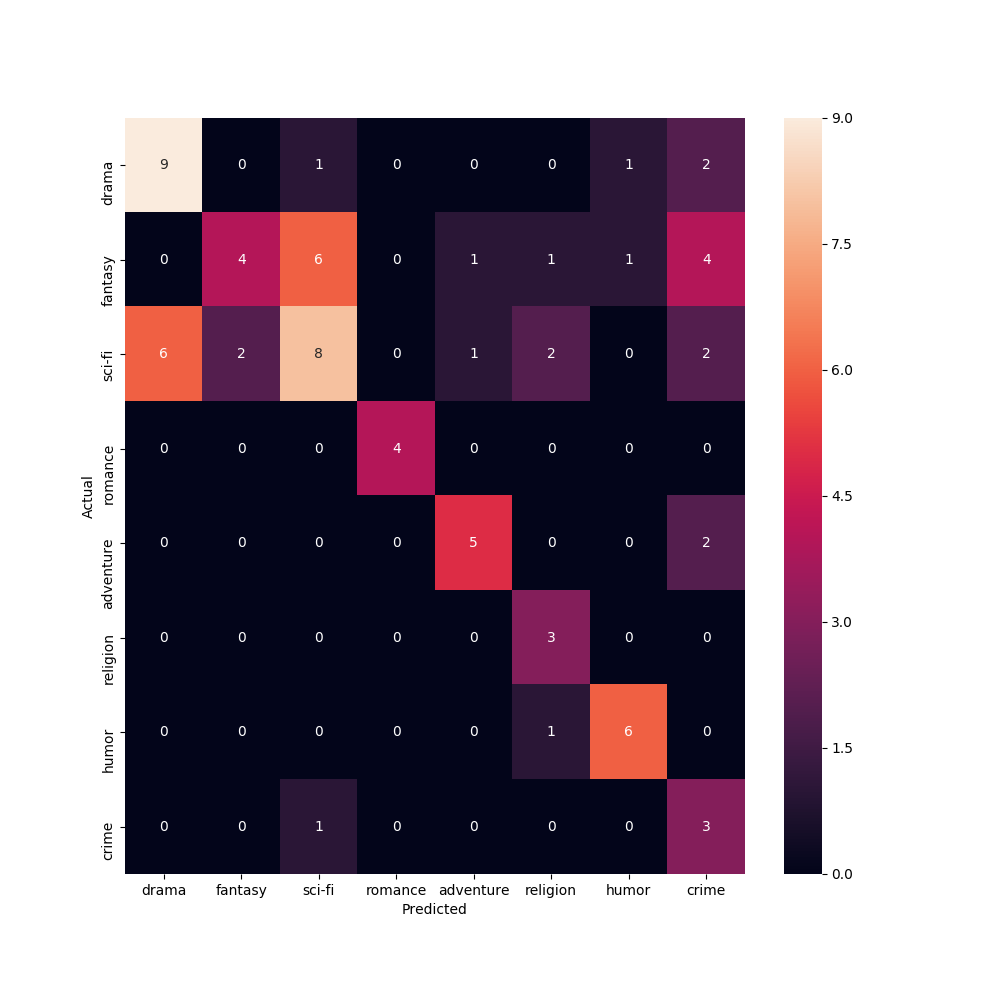
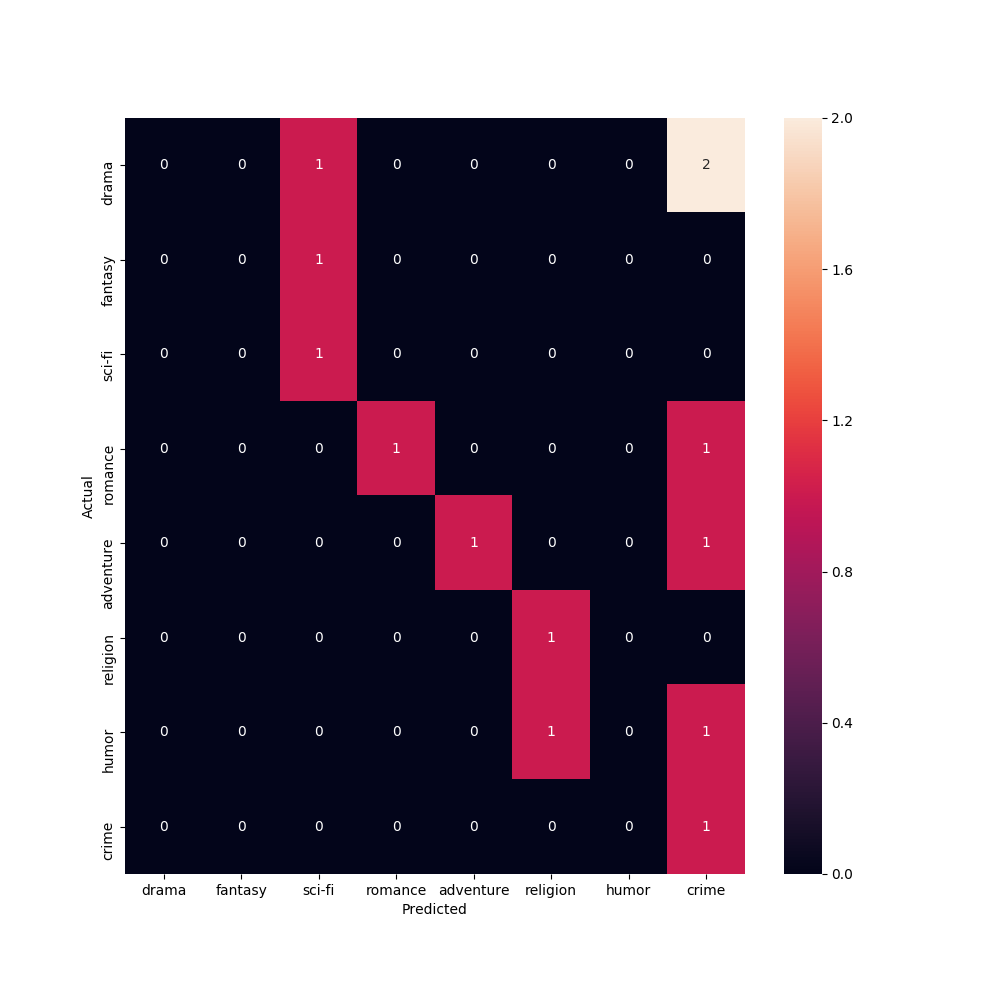
add third round

diff --git a/classifier/nb.py b/classifier/nb.py
@@ -53,6 +53,7 @@ for value in test_texts.values:
 	print(value[1].replace('.txt',''))
 	print('Predicted:\n')
 	print(clf.predict(count_vect.transform([value[0]]))[0])
+	print(clf.predict_proba(count_vect.transform([value[0]]))[0])
 	test_results.append([value[1].replace('.txt',''),clf.predict(count_vect.transform([value[0]]))[0]])
 
 with open('test_results.csv', 'wb') as myfile:
@@ -92,7 +93,9 @@ rus = RandomUnderSampler(ratio = .8, random_state=0)
 rus.fit(features, labels)
 X_resampled, y_resampled = rus.sample(features, labels)
 
-clf = model.fit(X_resampled, y_resampled)
+X_train, X_test, y_train, y_test = train_test_split(X_resampled, y_resampled, test_size = 0.1, random_state=0)
+
+clf = model.fit(X_train, y_train)
 y_pred = model.predict(X_test)
 
 accuracy = accuracy_score(y_test, y_pred)
@@ -109,16 +112,80 @@ plt.show()
 
 print(metrics.classification_report(y_test, y_pred, target_names=data['category'].unique()))
 
+
+# Segundo intento
+
+# Prepare data
+
+all_texts = pd.read_csv('../all_texts.csv')
+result_classification = pd.read_csv('../result_classification.csv', index_col=0)
+
+data = pd.merge(all_texts, result_classification, how = 'inner', on = 'file_name')
+data = data[data['category'] != 'myster']
+data = data[data['category'] != 'satire']
+data = data[data['category'] != 'travel']
+data = data[data['category'] != 'history']
+data = data[data['category'] != 'children']
+data = data[data['category'] != 'romance']
+data = data[data['category'] != 'religion']
+data = data[data['category'] != 'humor']
+data = data[data['category'] != 'crime']
+data['category_id'] = data['category'].factorize()[0]
+category_id_df = data[['category', 'category_id']].drop_duplicates().sort_values('category_id')
+category_to_id = dict(category_id_df.values)
+id_to_category = dict(category_id_df[['category_id', 'category']].values)
+
+tfidf = TfidfVectorizer(sublinear_tf = True, min_df = 5, norm = 'l2', encoding = 'latin-1', ngram_range = (1, 2), stop_words = 'english')
+
+features = tfidf.fit_transform(data.content).toarray()
+labels = data.category_id
+features.shape
+
+X_train, X_test, y_train, y_test = train_test_split(data['content'], data['category'], random_state = 0)
+count_vect = CountVectorizer()
+X_train_counts = count_vect.fit_transform(X_train)
+tfidf_transformer = TfidfTransformer()
+X_train_tfidf = tfidf_transformer.fit_transform(X_train_counts)
+
+clf = MultinomialNB().fit(X_train_tfidf, y_train)
+
+test_texts = pd.read_csv('../test_texts.csv')
+
 test_results = []
 for value in test_texts.values:
 	print('Category:\n')
 	print(value[1].replace('.txt',''))
 	print('Predicted:\n')
 	print(clf.predict(count_vect.transform([value[0]]))[0])
-	test_results.append([value[1].replace('.txt',''),clf.predict(tfidf_transformer.fit_transform(count_vect.transform([value[0]])))[0]])
+	print(clf.predict_proba(count_vect.transform([value[0]]))[0])
+	test_results.append([value[1].replace('.txt',''),clf.predict(count_vect.transform([value[0]]))[0]])
 
-with open('test_results_2.csv', 'wb') as myfile:
+with open('test_results2.csv', 'wb') as myfile:
     wr = csv.writer(myfile, quoting=csv.QUOTE_ALL)
     wr.writerow(['file_name', 'prediction'])
     for elem in test_results:
 		wr.writerow(elem)
+
+accuracies = cross_val_score(MultinomialNB(), features, labels, scoring='accuracy', cv=5)
+
+print(accuracies.mean())
+
+model = MultinomialNB()
+
+X_train, X_test, y_train, y_test, indices_train, indices_test = train_test_split(features, labels, data.index, test_size = 0.2, random_state=0)
+clf = model.fit(X_train, y_train)
+y_pred = model.predict(X_test)
+
+accuracy = accuracy_score(y_test, y_pred)
+
+print(accuracy)
+
+conf_mat = confusion_matrix(y_test, y_pred)
+fig, ax = plt.subplots(figsize=(10,10))
+sns.heatmap(conf_mat, annot=True, fmt='d',
+            xticklabels=category_id_df.category.values, yticklabels=category_id_df.category.values)
+plt.ylabel('Actual')
+plt.xlabel('Predicted')
+plt.show()
+
+print(metrics.classification_report(y_test, y_pred, target_names=data['category'].unique()))

diff --git a/data_exp/preproc.py b/data_exp/preproc.py
@@ -58,3 +58,63 @@ with open('ngram_correlations.csv', 'wb') as myfile:
     wr.writerow(['category', 'unigrams', 'bigrams'])
     for elem in correlations:
 		wr.writerow(elem)
+
+
+# Second 
+
+all_texts = pd.read_csv('../all_texts.csv')
+result_classification = pd.read_csv('../result_classification.csv', index_col=0)
+print(all_texts.head())
+print(result_classification.head())
+
+data = pd.merge(all_texts, result_classification, how = 'inner', on = 'file_name')
+
+data = data[data['category'] != 'myster']
+data = data[data['category'] != 'satire']
+data = data[data['category'] != 'travel']
+data = data[data['category'] != 'history']
+data = data[data['category'] != 'children']
+data = data[data['category'] != 'romance']
+data = data[data['category'] != 'religion']
+data = data[data['category'] != 'humor']
+data = data[data['category'] != 'crime']
+
+print(data.shape)
+print(data.head())
+
+data['category_id'] = data['category'].factorize()[0]
+category_id_df = data[['category', 'category_id']].drop_duplicates().sort_values('category_id')
+category_to_id = dict(category_id_df.values)
+id_to_category = dict(category_id_df[['category_id', 'category']].values)
+
+print(data.head())
+
+fig = plt.figure(figsize = (8,6))
+data.groupby('category').content.count().plot.bar(ylim = 0)
+plt.show()
+
+tfidf = TfidfVectorizer(sublinear_tf = True, min_df = 5, norm = 'l2', encoding = 'latin-1', ngram_range = (1, 2), stop_words = 'english')
+
+features = tfidf.fit_transform(data.content).toarray()
+labels = data.category_id
+print(features.shape)
+
+correlations = []
+
+N = 2
+for category, category_id in sorted(category_to_id.items()):
+  features_chi2 = chi2(features, labels == category_id)
+  indices = np.argsort(features_chi2[0])
+  feature_names = np.array(tfidf.get_feature_names())[indices]
+  unigrams = [v for v in feature_names if len(v.split(' ')) == 1]
+  bigrams = [v for v in feature_names if len(v.split(' ')) == 2]
+  print("# '{}':".format(category))
+  print("  . Most correlated unigrams:\n. {}".format('\n. '.join(unigrams[-N:])))
+  print("  . Most correlated bigrams:\n. {}".format('\n. '.join(bigrams[-N:])))
+  correlations.append([category, ' and '.join(unigrams[-N:]), ' and '.join(bigrams[-N:])])
+
+with open('ngram_correlations2.csv', 'wb') as myfile:
+    wr = csv.writer(myfile, quoting=csv.QUOTE_ALL)
+    wr.writerow(['category', 'unigrams', 'bigrams'])
+    for elem in correlations:
+		wr.writerow(elem)
